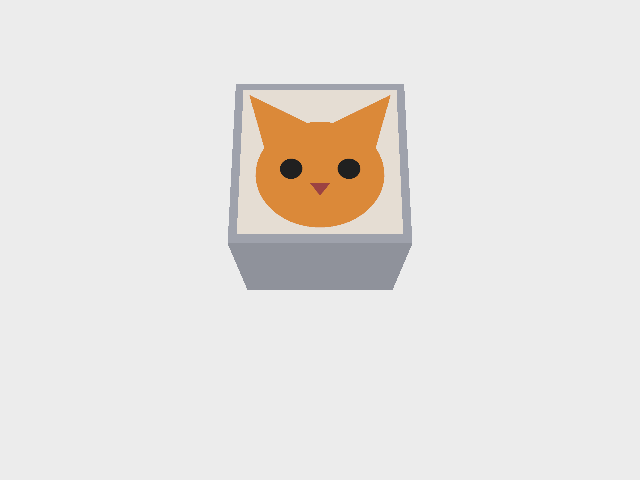
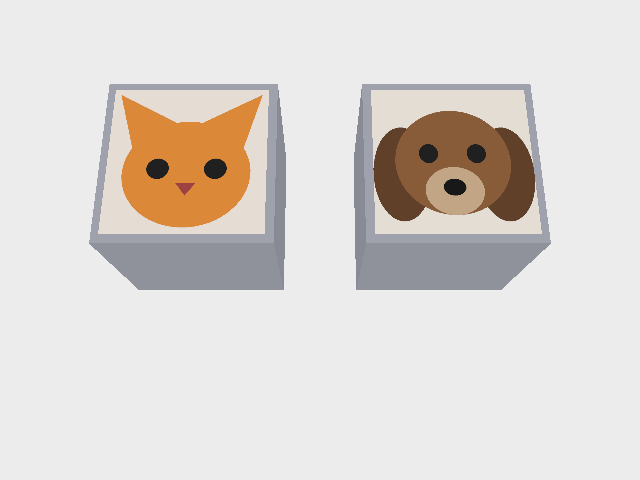
update vibe-coding notes

Changed region(s): [[0.125, 0.1562, 0.875, 0.625]]

diff --git a/2026-09-01-arm-select/report.html b/2026-09-01-arm-select/report.html
@@ -45,8 +45,15 @@
   .callout.warn{border-color:var(--warn);background:var(--warnbg)}
   .ok{color:var(--ok);font-weight:700}.no{color:var(--warn);font-weight:700}
   ul{margin:10px 0;padding-left:22px}li{margin:4px 0}
+  .vgrid{display:grid;grid-template-columns:1fr 1fr;gap:16px;margin:14px 0}
+  .vgrid figure{margin:0;background:var(--card);border:1px solid var(--line);border-radius:12px;overflow:hidden}
+  video{width:100%;display:block;background:#000}
+  figcaption{padding:10px 13px;font-size:13px;color:var(--muted)}
+  figcaption b{color:var(--ink)}
+  .tag{font-size:11px;font-weight:700;padding:2px 8px;border-radius:6px}
+  .tag.left{background:var(--leftbg);color:var(--left)} .tag.right{background:var(--rightbg);color:var(--right)}
   .foot{margin-top:40px;color:var(--muted);font-size:12.5px;border-top:1px solid var(--line);padding-top:14px}
-  @media(max-width:680px){.tldr{grid-template-columns:1fr}}
+  @media(max-width:680px){.tldr,.vgrid{grid-template-columns:1fr}}
 </style>
 
 <div class="wrap">

diff --git a/2026-09-01-attribute-select/howto-decal-on-cube.md b/2026-09-01-attribute-select/howto-decal-on-cube.md
@@ -14,6 +14,10 @@
 PIL 画的 PNG  →  带 UV 的 quad 小方片(mtl 指向 PNG)  →  add_visual_from_file 挂到 cube 本体  →  build 成一个刚体
 ```
 
+> **两种实现，先说结论**：
+> - **§3–§5 文件版**（quad.obj + mtl + png）——用来**讲清 UV / mesh 原理**，最直观。
+> - **§5.5 纯内存版（推荐落地）**——`RenderTexture2D(数组)` + `RenderShapeTriangleMesh(顶点,UV,...)`，**一个文件都不写**。因为没有任何路径要解，天然**抗嵌套/抗拷贝/抗 CWD**（若 robotwin-if 被别的 repo 当 submodule，文件版的路径解析要小心，内存版则完全无所谓）。生产就用这个。
+
 ## 1. 先补三个概念（看懂后面全靠这三个）
 
 - **贴图 / 纹理（texture）**：一张 2D 图片，"糊"到 3D 物体表面当颜色。在 SAPIEN 里是 `RenderMaterial.set_base_color_texture(RenderTexture2D(png))`，或经 `.mtl` 的 `map_Kd`。
@@ -137,6 +141,55 @@ arr = (np.clip(cam.get_picture("Color")[...,:3],0,1)*255).astype(np.uint8)
 Image.fromarray(arr).save("out.png")
 ```
 跑：`conda run -n RoboTwin python thisfile.py`（CWD 无所谓，贴图用相对/绝对路径都行）。
+
+## 5.5 推荐实现：纯内存（零文件、抗嵌套）
+
+§3–§5 把贴图/UV 落成磁盘文件是为了讲原理。**真正落地更推荐纯内存**——SAPIEN 的两个类都有"吃 numpy 数组"的重载，于是从头到尾不写任何文件：
+
+- `RenderTexture2D(array, "R8G8B8A8Unorm", srgb=True)` —— 纹理直接来自 **RGBA 数组**（不是 PNG 路径）。
+- `RenderShapeTriangleMesh(verts, tris, normals, uvs, material)` —— quad 直接来自 **顶点+UV 数组**（不是 OBJ）。
+
+因为**没有任何路径**，前面 §2/§6 里所有"路径怎么解"的坑（CWD 相对、symlink 被拷成实体、robotwin-if 被嵌成子 submodule）**全部消失**。env 退回纯代码、完全自包含（和 `create_box` 那批 IF 任务一样）。
+
+```python
+import numpy as np
+from PIL import Image, ImageDraw
+import sapien.core as sapien
+import sapien.render as R
+
+def head_arr(S=512):                      # (a) 画到 RGBA 数组，不落盘
+    img = Image.new("RGBA", (S, S), (248, 240, 229, 255)); d = ImageDraw.Draw(img)
+    d.ellipse([S*0.2, S*0.2, S*0.8, S*0.8], fill=(238, 150, 60, 255))
+    return np.asarray(img, dtype=np.uint8)
+
+def decal_cube_inmem(scene, x, arr, half=0.05, body=(0.42, 0.44, 0.5)):
+    ent = sapien.Entity()
+    rc = sapien.physx.PhysxRigidDynamicComponent()      # (b) 碰撞
+    rc.attach(sapien.physx.PhysxCollisionShapeBox(half_size=[half]*3,
+              material=scene.default_physical_material))
+    rb = R.RenderBodyComponent()                        # (c) 外观：本体 + decal
+    rb.attach(R.RenderShapeBox([half]*3, R.RenderMaterial(base_color=[*body, 1])))
+    tex = R.RenderTexture2D(arr, "R8G8B8A8Unorm", srgb=True)   # ← 纹理来自数组
+    mat = R.RenderMaterial(); mat.set_base_color_texture(tex)
+    mat.base_color = [1, 1, 1, 1]; mat.roughness = 0.7
+    q = half * 0.9
+    verts = np.array([[-q,-q,0],[q,-q,0],[q,q,0],[-q,q,0]], dtype=np.float32)
+    tris  = np.array([[0,1,2],[0,2,3]], dtype=np.uint32)
+    norms = np.tile([0,0,1], (4,1)).astype(np.float32)
+    uvs   = np.array([[0,1],[1,1],[1,0],[0,0]], dtype=np.float32)   # ← UV 写死[0,1]，v 翻转正立
+    mesh = R.RenderShapeTriangleMesh(verts, tris, norms, uvs, mat) # ← quad 来自数组
+    mesh.set_local_pose(sapien.Pose([0, 0, half + 0.002]))         # 抬到顶面
+    rb.attach(mesh)
+    ent.add_component(rc); ent.add_component(rb)
+    ent.set_pose(sapien.Pose([x, 0, half])); scene.add_entity(ent)
+    return ent
+```
+跑通的完整脚本：`tests/attribute_select/spike_decal_inmem.py`；输出 `evidence/spike_inmem.png`（猫+狗，全程零文件）。
+
+**要点/差异**：
+- 用**手动建 entity**（`RenderBodyComponent.attach(shape)`），不是 `ActorBuilder`——因为要塞自定义 mesh，走的是 `create_sphere`/`create_cylinder` 那条低层路子。
+- **抓取元数据**：手动 entity 没有 `create_box` 的 `contact_points`。真 env 里更稳的是**用 `create_box` 建本体（拿到 Actor + 抓取点），再把 decal mesh attach 到它的 `RenderBodyComponent`**——既有贴图又保留抓取参数。
+- **将来上真实照片仍想零文件**：把照片 base64 内嵌进 .py（或存 `.npy`）解码成数组，走同一条内存路径。
 
 ## 6. 常见坑（都踩过）
 

diff --git a/2026-09-01-attribute-select/design-discussion.md b/2026-09-01-attribute-select/design-discussion.md
@@ -95,26 +95,34 @@
 - **top-face-only + 单刚体**：一个 actor = 灰蓝 cube 本体（box collision+visual）+ 顶面 quad 贴片（本体色与贴片解耦，贴片只在顶面）→ 整体可抓，正是生产配方。
 - **猫/狗可辨**：程序画（无联网/无版权）——猫=橙、**尖三角耳**；狗=棕、**两侧垂耳**+浅口鼻。轮廓（尖 vs 垂）+ 颜色双重可分，最终 `spike_decal_top.png` 单头居中、方向正、cube 蓝灰不撞白背景。
 
-### 7c. 生产配方（decal mode 直接用）
+### 7c. 生产配方（decal mode 直接用）——**纯内存、零文件为首选**
+
+资产管理决策（讨论后定）：**decal 走程序生成 + 纯内存构造，不落任何磁盘资产**。动机是 [howto-decal-on-cube.md](howto-decal-on-cube.md) §5.5 的抗嵌套考量——若 robotwin-if 被别的 repo 当 submodule，文件路径解析（CWD 相对 / symlink 被拷成实体 / `realpath(__file__)` 反解）都有失效面；**内存版没有任何路径 → 全免疫**，env 也退回纯代码、自包含（和 laptop_verb/arm_select 一样，`bridge_tasks.sh` 无需新增 assets 注入点）。
+
+SAPIEN 两个类都有"吃 numpy 数组"的重载，是这条路的关键：
 ```
-actor = builder:
-  add_box_collision(half)            # 抓取用
-  add_box_visual(half, body_color)   # 灰蓝本体，四 cube 同色（不构成 color 混淆）
-  add_visual_from_file(quad.obj,     # 顶面单头 decal
-      pose=[0,0,half+0.002], scale=[2*half*0.9, 2*half*0.9, 1])
-# quad.obj: XY 平面单位方片，法线 +z，vt 用 (0,0)(1,0)(1,1)(0,1) 正立
-# mtl: map_Kd <cat|dog>.png（绝对/同目录路径，不碰 submodule assets）
+ent = Entity():
+  PhysxRigidDynamicComponent + PhysxCollisionShapeBox(half)     # 碰撞（抓取用）
+  RenderBodyComponent:
+    RenderShapeBox(half, 灰蓝本体色)                             # 四 cube 同色，不构成 color 混淆
+    RenderShapeTriangleMesh(verts, tris, normals, uvs, mat)     # 顶面 decal：quad 来自数组、UV 写死[0,1]（v 翻转正立）
+      mat.set_base_color_texture(RenderTexture2D(rgba_arr, "R8G8B8A8Unorm", srgb=True))  # 纹理来自数组
+      mesh.set_local_pose([0,0,half+0.002])                     # 抬到顶面
 ```
-真实猫狗照片（CC0/生成图）后续换 `_head_cat.png`/`_head_dog.png` 即可，机制不变。
+- **抓取元数据**：手动 entity 没有 `create_box` 的 contact_points → 真 env 里改成**用 `create_box` 建本体（拿 Actor+抓取点），再把 decal mesh attach 到它的 RenderBodyComponent**。
+- **上真实照片仍零文件**：照片 base64 内嵌 .py（或 `.npy`）解码成数组，走同一条内存路径；授权在模块里记一行。
+- **备选（讲原理用）**：文件版 = quad.obj+mtl+png + `add_visual_from_file`（`spike_decal_top.py`），直观但引入路径解析，不作首选。
 
 ### 7d. 证据
 - `evidence/spike_shape_size.png` —— shape+size 四 primitive。
 - `evidence/spike_decal_color.png` —— 初版 box 面贴图（暴露 UV 半窗裁切）+ 纯色 box。
 - `evidence/spike_uv_cal.png` —— UV 窗口标定（证半窗偏心）。
-- `evidence/spike_decal_top.png` —— **定稿**：顶面单头猫/狗、quad mesh。
-- 脚本：`tests/attribute_select/spike_decal_render.py`、`spike_decal_top.py`。
+- `evidence/spike_decal_top.png` —— 文件版定稿：顶面单头猫/狗、quad mesh。
+- `evidence/spike_inmem.png` —— **纯内存版定稿（首选配方）**：猫+狗，全程零文件。
+- 脚本：`tests/attribute_select/{spike_decal_render,spike_decal_top,spike_decal_inmem}.py`。
 
 ### 7e. 仍未做（进阶段③前）
 - 抓取 oracle 未在本 env 实跑（借 §4/§7 结论）；env 接线后补一个 4-mode 抓取成功率 spike。
-- 真实 decal 图 + 授权；size 两档尺寸最终值；shape/color/size 的干扰物 builder。
+- decal mode 用 `create_box` 本体 + attach decal mesh 的整合（保留抓取点）；size 两档尺寸最终值；shape/color/size 的干扰物 builder。
 - 阶段③：seed→mode→instruction→check 四者同源（`MODES=[color,decal,shape,size]`、`k=4`）。
+- 资产管理已定（7c：纯内存、零文件），**无 bridge/submodule 改动**。
